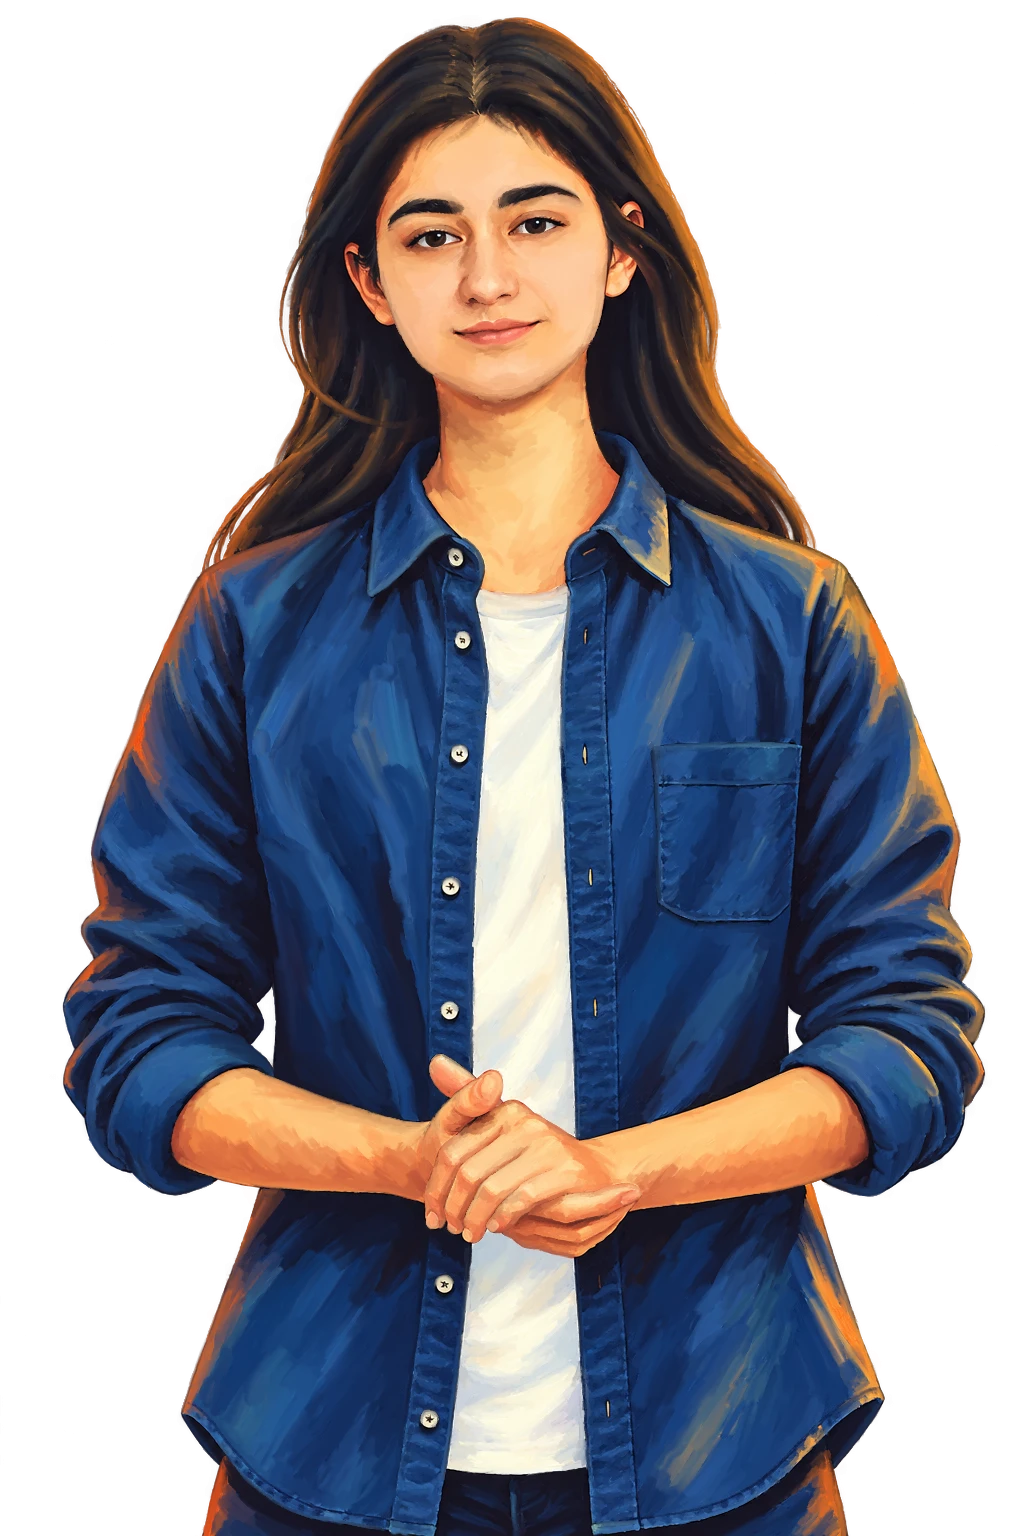
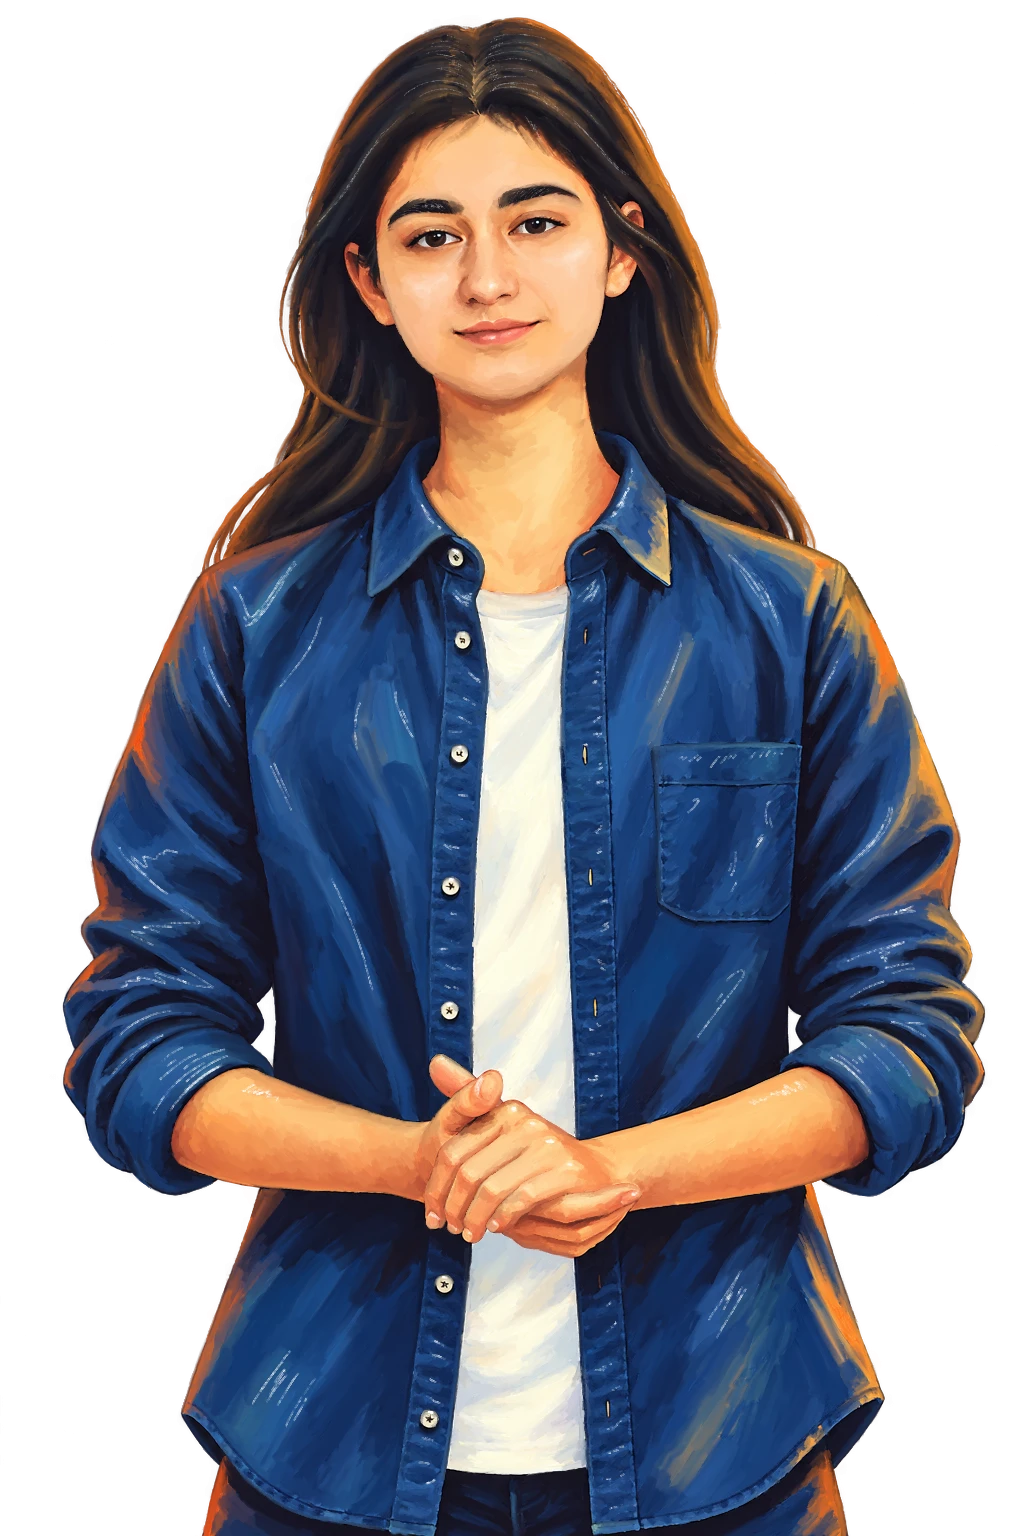
Update portrait.png to the adjusted version
Swap in the latest transparent portrait (converted from the supplied
WebP) and bump the image cache version so browsers fetch the new one.

Claude-Session: https://claude.ai/code/session_01LkWtBj6VC6X8AFsPh94dGq

diff --git a/research.html b/research.html
@@ -1,1 +1,1 @@
-<!doctype html><html lang="en"><head><meta charset="UTF-8" /><meta name="viewport" content="width=device-width, initial-scale=1.0" /><meta name="theme-color" content="#050611" /><title>Research | Bahar Yuksel</title><link rel="preconnect" href="https://fonts.googleapis.com" /><link rel="preconnect" href="https://fonts.gstatic.com" crossorigin /><link href="https://fonts.googleapis.com/css2?family=DM+Mono:wght@400;500&family=Manrope:wght@400;500;600;700;800&display=swap" rel="stylesheet" /><link rel="stylesheet" href="styles.css?v=20260813-8" /></head><body data-page="research"><canvas id="motionCanvas" aria-hidden="true"></canvas><main class="shell"><header class="topbar" data-shell></header><section class="page" id="pageRoot"></section></main><dialog id="searchDialog"></dialog><dialog id="featureDialog"></dialog><script src="content.js?v=20260813-8"></script><script src="app.js?v=20260813-8"></script></body></html>
+<!doctype html><html lang="en"><head><meta charset="UTF-8" /><meta name="viewport" content="width=device-width, initial-scale=1.0" /><meta name="theme-color" content="#050611" /><title>Research | Bahar Yuksel</title><link rel="preconnect" href="https://fonts.googleapis.com" /><link rel="preconnect" href="https://fonts.gstatic.com" crossorigin /><link href="https://fonts.googleapis.com/css2?family=DM+Mono:wght@400;500&family=Manrope:wght@400;500;600;700;800&display=swap" rel="stylesheet" /><link rel="stylesheet" href="styles.css?v=20260813-9" /></head><body data-page="research"><canvas id="motionCanvas" aria-hidden="true"></canvas><main class="shell"><header class="topbar" data-shell></header><section class="page" id="pageRoot"></section></main><dialog id="searchDialog"></dialog><dialog id="featureDialog"></dialog><script src="content.js?v=20260813-9"></script><script src="app.js?v=20260813-9"></script></body></html>

diff --git a/contact.html b/contact.html
@@ -1,1 +1,1 @@
-<!doctype html><html lang="en"><head><meta charset="UTF-8" /><meta name="viewport" content="width=device-width, initial-scale=1.0" /><meta name="theme-color" content="#050611" /><title>Contact | Bahar Yuksel</title><link rel="preconnect" href="https://fonts.googleapis.com" /><link rel="preconnect" href="https://fonts.gstatic.com" crossorigin /><link href="https://fonts.googleapis.com/css2?family=DM+Mono:wght@400;500&family=Manrope:wght@400;500;600;700;800&display=swap" rel="stylesheet" /><link rel="stylesheet" href="styles.css?v=20260813-8" /></head><body data-page="contact"><canvas id="motionCanvas" aria-hidden="true"></canvas><main class="shell"><header class="topbar" data-shell></header><section class="page" id="pageRoot"></section></main><dialog id="searchDialog"></dialog><dialog id="featureDialog"></dialog><script src="content.js?v=20260813-8"></script><script src="app.js?v=20260813-8"></script></body></html>
+<!doctype html><html lang="en"><head><meta charset="UTF-8" /><meta name="viewport" content="width=device-width, initial-scale=1.0" /><meta name="theme-color" content="#050611" /><title>Contact | Bahar Yuksel</title><link rel="preconnect" href="https://fonts.googleapis.com" /><link rel="preconnect" href="https://fonts.gstatic.com" crossorigin /><link href="https://fonts.googleapis.com/css2?family=DM+Mono:wght@400;500&family=Manrope:wght@400;500;600;700;800&display=swap" rel="stylesheet" /><link rel="stylesheet" href="styles.css?v=20260813-9" /></head><body data-page="contact"><canvas id="motionCanvas" aria-hidden="true"></canvas><main class="shell"><header class="topbar" data-shell></header><section class="page" id="pageRoot"></section></main><dialog id="searchDialog"></dialog><dialog id="featureDialog"></dialog><script src="content.js?v=20260813-9"></script><script src="app.js?v=20260813-9"></script></body></html>

diff --git a/writing.html b/writing.html
@@ -1,1 +1,1 @@
-<!doctype html><html lang="en"><head><meta charset="UTF-8" /><meta name="viewport" content="width=device-width, initial-scale=1.0" /><meta name="theme-color" content="#050611" /><title>Writing | Bahar Yuksel</title><link rel="preconnect" href="https://fonts.googleapis.com" /><link rel="preconnect" href="https://fonts.gstatic.com" crossorigin /><link href="https://fonts.googleapis.com/css2?family=DM+Mono:wght@400;500&family=Manrope:wght@400;500;600;700;800&display=swap" rel="stylesheet" /><link rel="stylesheet" href="styles.css?v=20260813-8" /></head><body data-page="writing"><canvas id="motionCanvas" aria-hidden="true"></canvas><main class="shell"><header class="topbar" data-shell></header><section class="page" id="pageRoot"></section></main><dialog id="searchDialog"></dialog><dialog id="featureDialog"></dialog><script src="content.js?v=20260813-8"></script><script src="app.js?v=20260813-8"></script></body></html>
+<!doctype html><html lang="en"><head><meta charset="UTF-8" /><meta name="viewport" content="width=device-width, initial-scale=1.0" /><meta name="theme-color" content="#050611" /><title>Writing | Bahar Yuksel</title><link rel="preconnect" href="https://fonts.googleapis.com" /><link rel="preconnect" href="https://fonts.gstatic.com" crossorigin /><link href="https://fonts.googleapis.com/css2?family=DM+Mono:wght@400;500&family=Manrope:wght@400;500;600;700;800&display=swap" rel="stylesheet" /><link rel="stylesheet" href="styles.css?v=20260813-9" /></head><body data-page="writing"><canvas id="motionCanvas" aria-hidden="true"></canvas><main class="shell"><header class="topbar" data-shell></header><section class="page" id="pageRoot"></section></main><dialog id="searchDialog"></dialog><dialog id="featureDialog"></dialog><script src="content.js?v=20260813-9"></script><script src="app.js?v=20260813-9"></script></body></html>

diff --git a/about.html b/about.html
@@ -1,1 +1,1 @@
-<!doctype html><html lang="en"><head><meta charset="UTF-8" /><meta name="viewport" content="width=device-width, initial-scale=1.0" /><meta name="theme-color" content="#050611" /><title>About | Bahar Yuksel</title><link rel="preconnect" href="https://fonts.googleapis.com" /><link rel="preconnect" href="https://fonts.gstatic.com" crossorigin /><link href="https://fonts.googleapis.com/css2?family=DM+Mono:wght@400;500&family=Manrope:wght@400;500;600;700;800&display=swap" rel="stylesheet" /><link rel="stylesheet" href="styles.css?v=20260813-8" /></head><body data-page="about"><canvas id="motionCanvas" aria-hidden="true"></canvas><main class="shell"><header class="topbar" data-shell></header><section class="page" id="pageRoot"></section></main><dialog id="searchDialog"></dialog><dialog id="featureDialog"></dialog><script src="content.js?v=20260813-8"></script><script src="app.js?v=20260813-8"></script></body></html>
+<!doctype html><html lang="en"><head><meta charset="UTF-8" /><meta name="viewport" content="width=device-width, initial-scale=1.0" /><meta name="theme-color" content="#050611" /><title>About | Bahar Yuksel</title><link rel="preconnect" href="https://fonts.googleapis.com" /><link rel="preconnect" href="https://fonts.gstatic.com" crossorigin /><link href="https://fonts.googleapis.com/css2?family=DM+Mono:wght@400;500&family=Manrope:wght@400;500;600;700;800&display=swap" rel="stylesheet" /><link rel="stylesheet" href="styles.css?v=20260813-9" /></head><body data-page="about"><canvas id="motionCanvas" aria-hidden="true"></canvas><main class="shell"><header class="topbar" data-shell></header><section class="page" id="pageRoot"></section></main><dialog id="searchDialog"></dialog><dialog id="featureDialog"></dialog><script src="content.js?v=20260813-9"></script><script src="app.js?v=20260813-9"></script></body></html>

diff --git a/work.html b/work.html
@@ -1,1 +1,1 @@
-<!doctype html><html lang="en"><head><meta charset="UTF-8" /><meta name="viewport" content="width=device-width, initial-scale=1.0" /><meta name="theme-color" content="#050611" /><title>Work | Bahar Yuksel</title><link rel="preconnect" href="https://fonts.googleapis.com" /><link rel="preconnect" href="https://fonts.gstatic.com" crossorigin /><link href="https://fonts.googleapis.com/css2?family=DM+Mono:wght@400;500&family=Manrope:wght@400;500;600;700;800&display=swap" rel="stylesheet" /><link rel="stylesheet" href="styles.css?v=20260813-8" /></head><body data-page="work"><canvas id="motionCanvas" aria-hidden="true"></canvas><main class="shell"><header class="topbar" data-shell></header><section class="page" id="pageRoot"></section></main><dialog id="searchDialog"></dialog><dialog id="featureDialog"></dialog><script src="content.js?v=20260813-8"></script><script src="app.js?v=20260813-8"></script></body></html>
+<!doctype html><html lang="en"><head><meta charset="UTF-8" /><meta name="viewport" content="width=device-width, initial-scale=1.0" /><meta name="theme-color" content="#050611" /><title>Work | Bahar Yuksel</title><link rel="preconnect" href="https://fonts.googleapis.com" /><link rel="preconnect" href="https://fonts.gstatic.com" crossorigin /><link href="https://fonts.googleapis.com/css2?family=DM+Mono:wght@400;500&family=Manrope:wght@400;500;600;700;800&display=swap" rel="stylesheet" /><link rel="stylesheet" href="styles.css?v=20260813-9" /></head><body data-page="work"><canvas id="motionCanvas" aria-hidden="true"></canvas><main class="shell"><header class="topbar" data-shell></header><section class="page" id="pageRoot"></section></main><dialog id="searchDialog"></dialog><dialog id="featureDialog"></dialog><script src="content.js?v=20260813-9"></script><script src="app.js?v=20260813-9"></script></body></html>

diff --git a/art.html b/art.html
@@ -1,1 +1,1 @@
-<!doctype html><html lang="en"><head><meta charset="UTF-8" /><meta name="viewport" content="width=device-width, initial-scale=1.0" /><meta name="theme-color" content="#050611" /><title>Art | Bahar Yuksel</title><link rel="preconnect" href="https://fonts.googleapis.com" /><link rel="preconnect" href="https://fonts.gstatic.com" crossorigin /><link href="https://fonts.googleapis.com/css2?family=DM+Mono:wght@400;500&family=Manrope:wght@400;500;600;700;800&display=swap" rel="stylesheet" /><link rel="stylesheet" href="styles.css?v=20260813-8" /></head><body data-page="art"><canvas id="motionCanvas" aria-hidden="true"></canvas><main class="shell"><header class="topbar" data-shell></header><section class="page" id="pageRoot"></section></main><dialog id="searchDialog"></dialog><dialog id="featureDialog"></dialog><script src="content.js?v=20260813-8"></script><script src="app.js?v=20260813-8"></script></body></html>
+<!doctype html><html lang="en"><head><meta charset="UTF-8" /><meta name="viewport" content="width=device-width, initial-scale=1.0" /><meta name="theme-color" content="#050611" /><title>Art | Bahar Yuksel</title><link rel="preconnect" href="https://fonts.googleapis.com" /><link rel="preconnect" href="https://fonts.gstatic.com" crossorigin /><link href="https://fonts.googleapis.com/css2?family=DM+Mono:wght@400;500&family=Manrope:wght@400;500;600;700;800&display=swap" rel="stylesheet" /><link rel="stylesheet" href="styles.css?v=20260813-9" /></head><body data-page="art"><canvas id="motionCanvas" aria-hidden="true"></canvas><main class="shell"><header class="topbar" data-shell></header><section class="page" id="pageRoot"></section></main><dialog id="searchDialog"></dialog><dialog id="featureDialog"></dialog><script src="content.js?v=20260813-9"></script><script src="app.js?v=20260813-9"></script></body></html>

diff --git a/index.html b/index.html
@@ -9,7 +9,7 @@
     <link rel="preconnect" href="https://fonts.googleapis.com" />
     <link rel="preconnect" href="https://fonts.gstatic.com" crossorigin />
     <link href="https://fonts.googleapis.com/css2?family=DM+Mono:wght@400;500&family=Manrope:wght@400;500;600;700;800&display=swap" rel="stylesheet" />
-    <link rel="stylesheet" href="styles.css?v=20260813-8" />
+    <link rel="stylesheet" href="styles.css?v=20260813-9" />
   </head>
   <body data-page="home">
     <canvas id="motionCanvas" aria-hidden="true"></canvas>
@@ -19,7 +19,7 @@
     </main>
     <dialog id="searchDialog"></dialog>
     <dialog id="featureDialog"></dialog>
-    <script src="content.js?v=20260813-8"></script>
-    <script src="app.js?v=20260813-8"></script>
+    <script src="content.js?v=20260813-9"></script>
+    <script src="app.js?v=20260813-9"></script>
   </body>
 </html>

diff --git a/content.js b/content.js
@@ -58,7 +58,7 @@ window.portfolio = {
   // styled frame; set src to a photo file (a cut-out / transparent-background
   // photo looks best) to show your picture instead.
   focusPhoto: {
-    src: "portrait.png?v=2",
+    src: "portrait.png?v=3",
     alt: "Bahar Yüksel",
   },
   research: [
